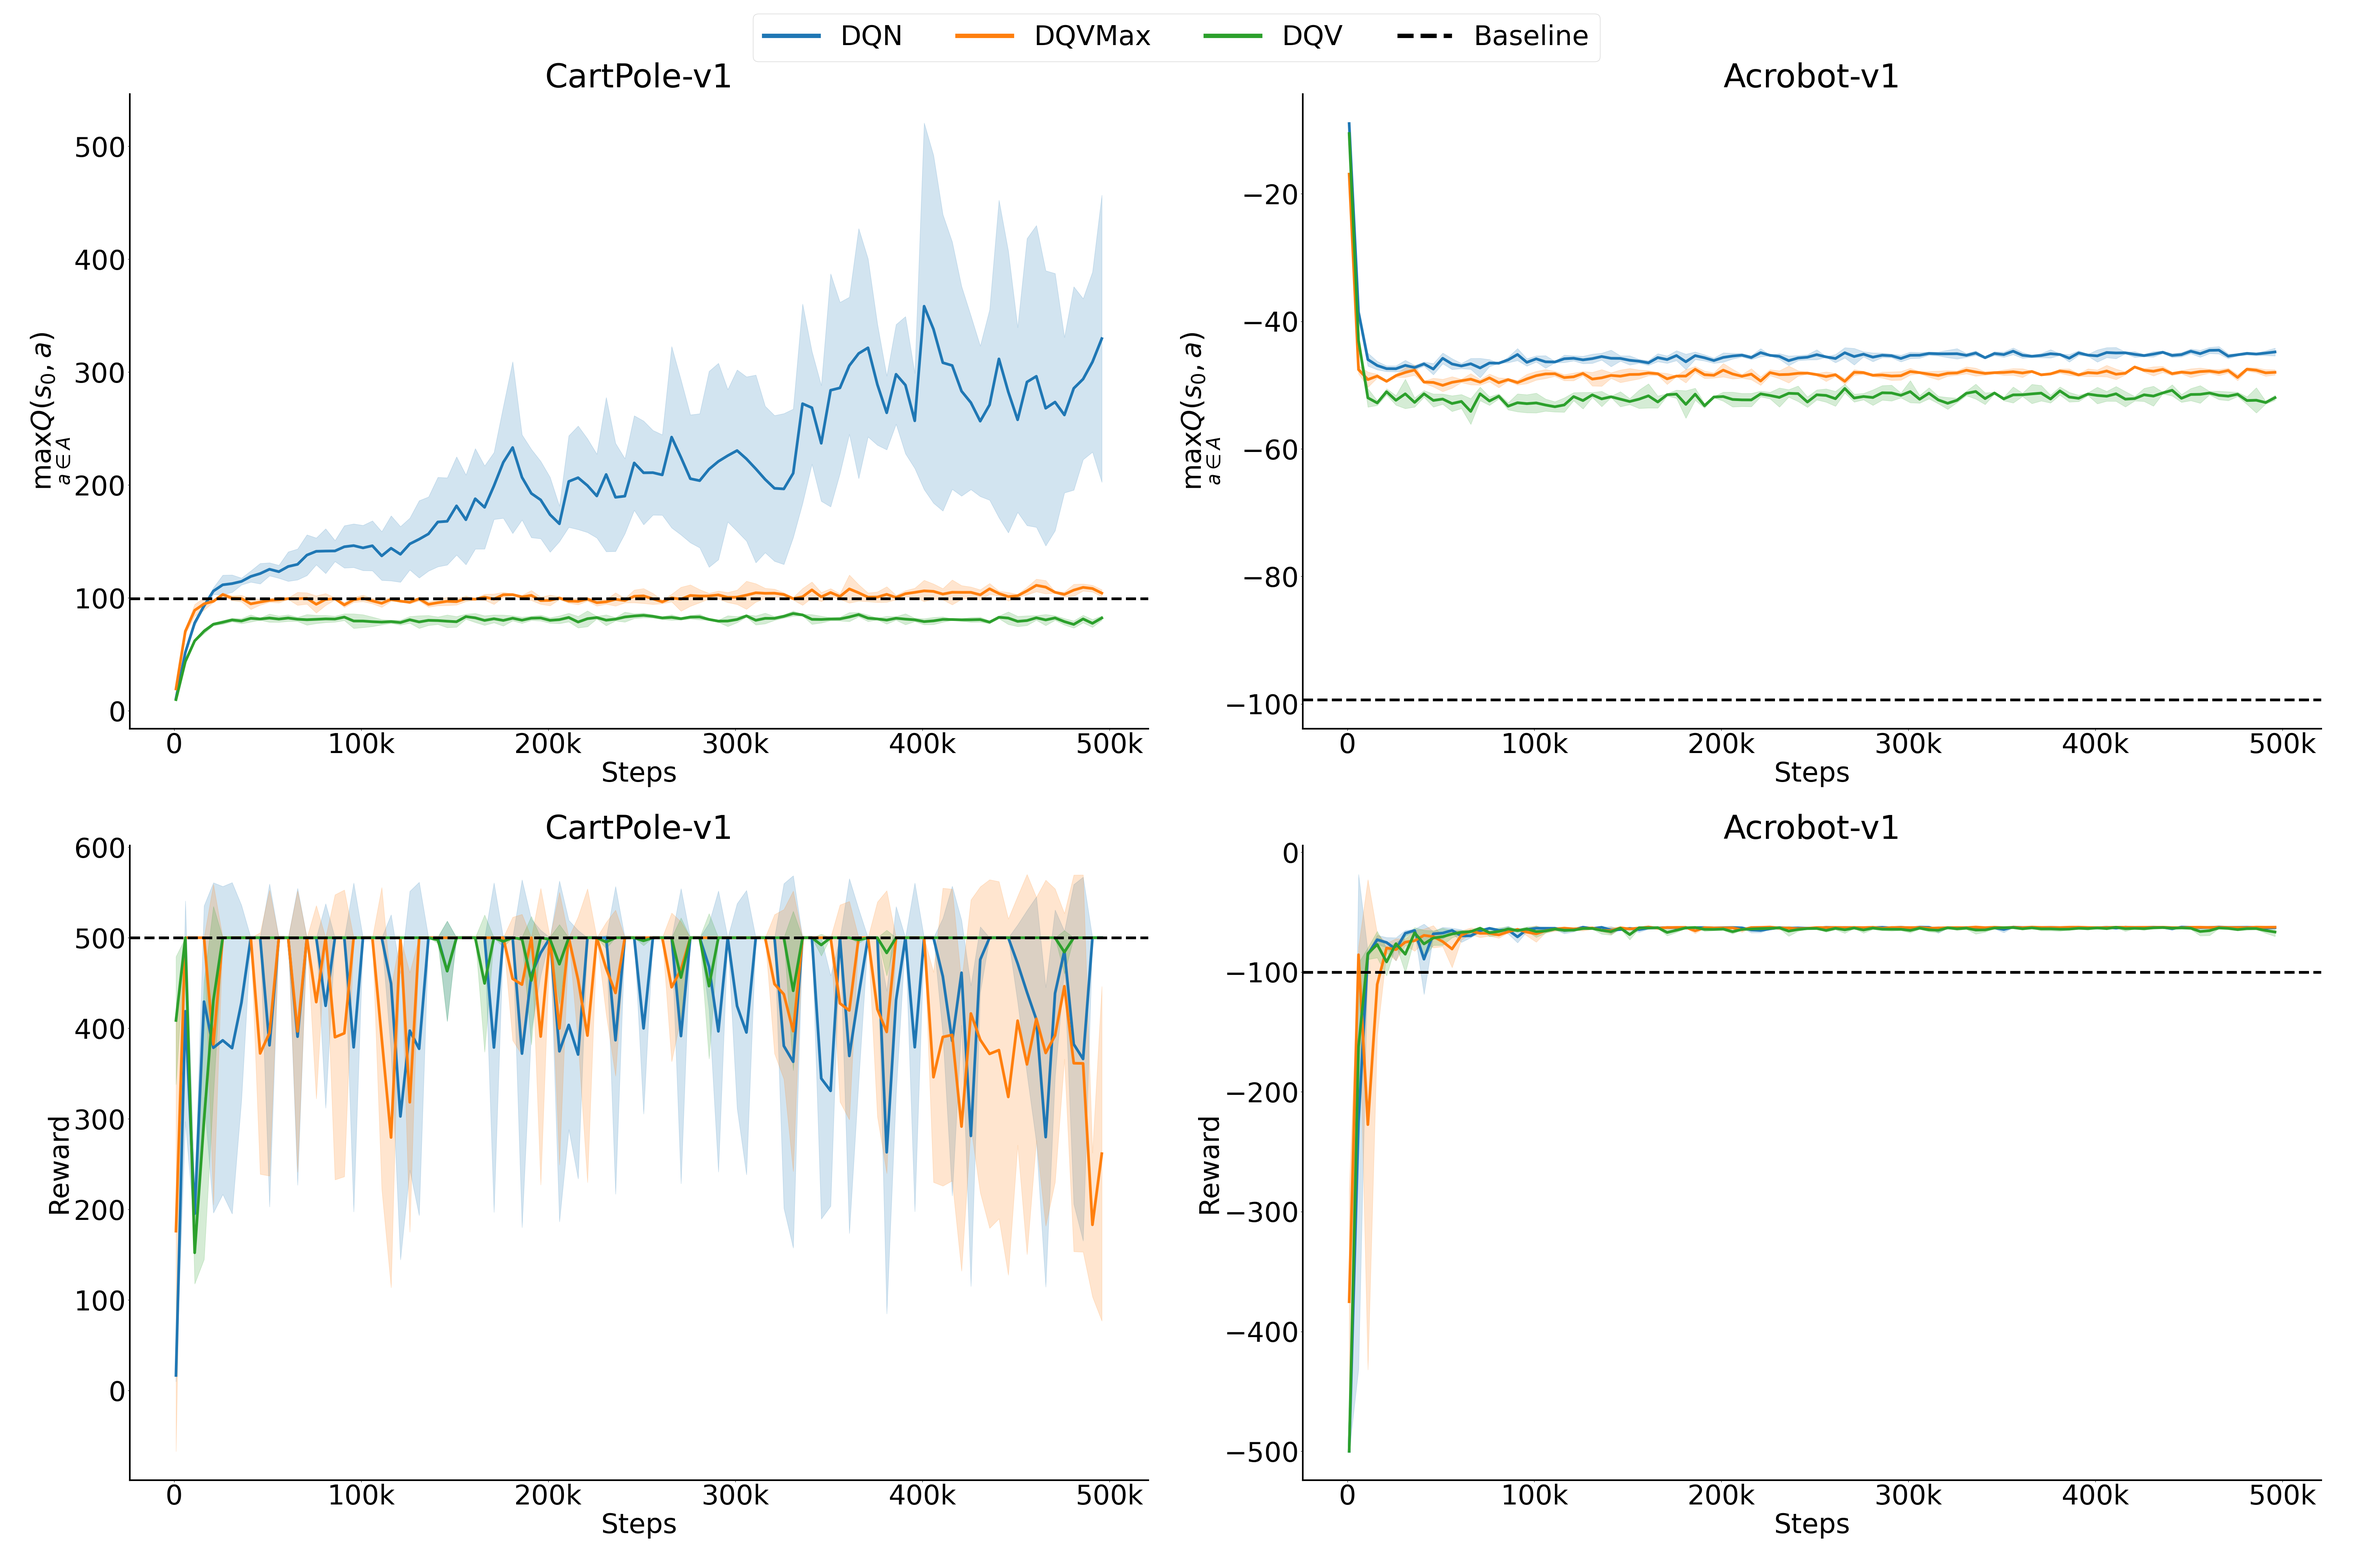
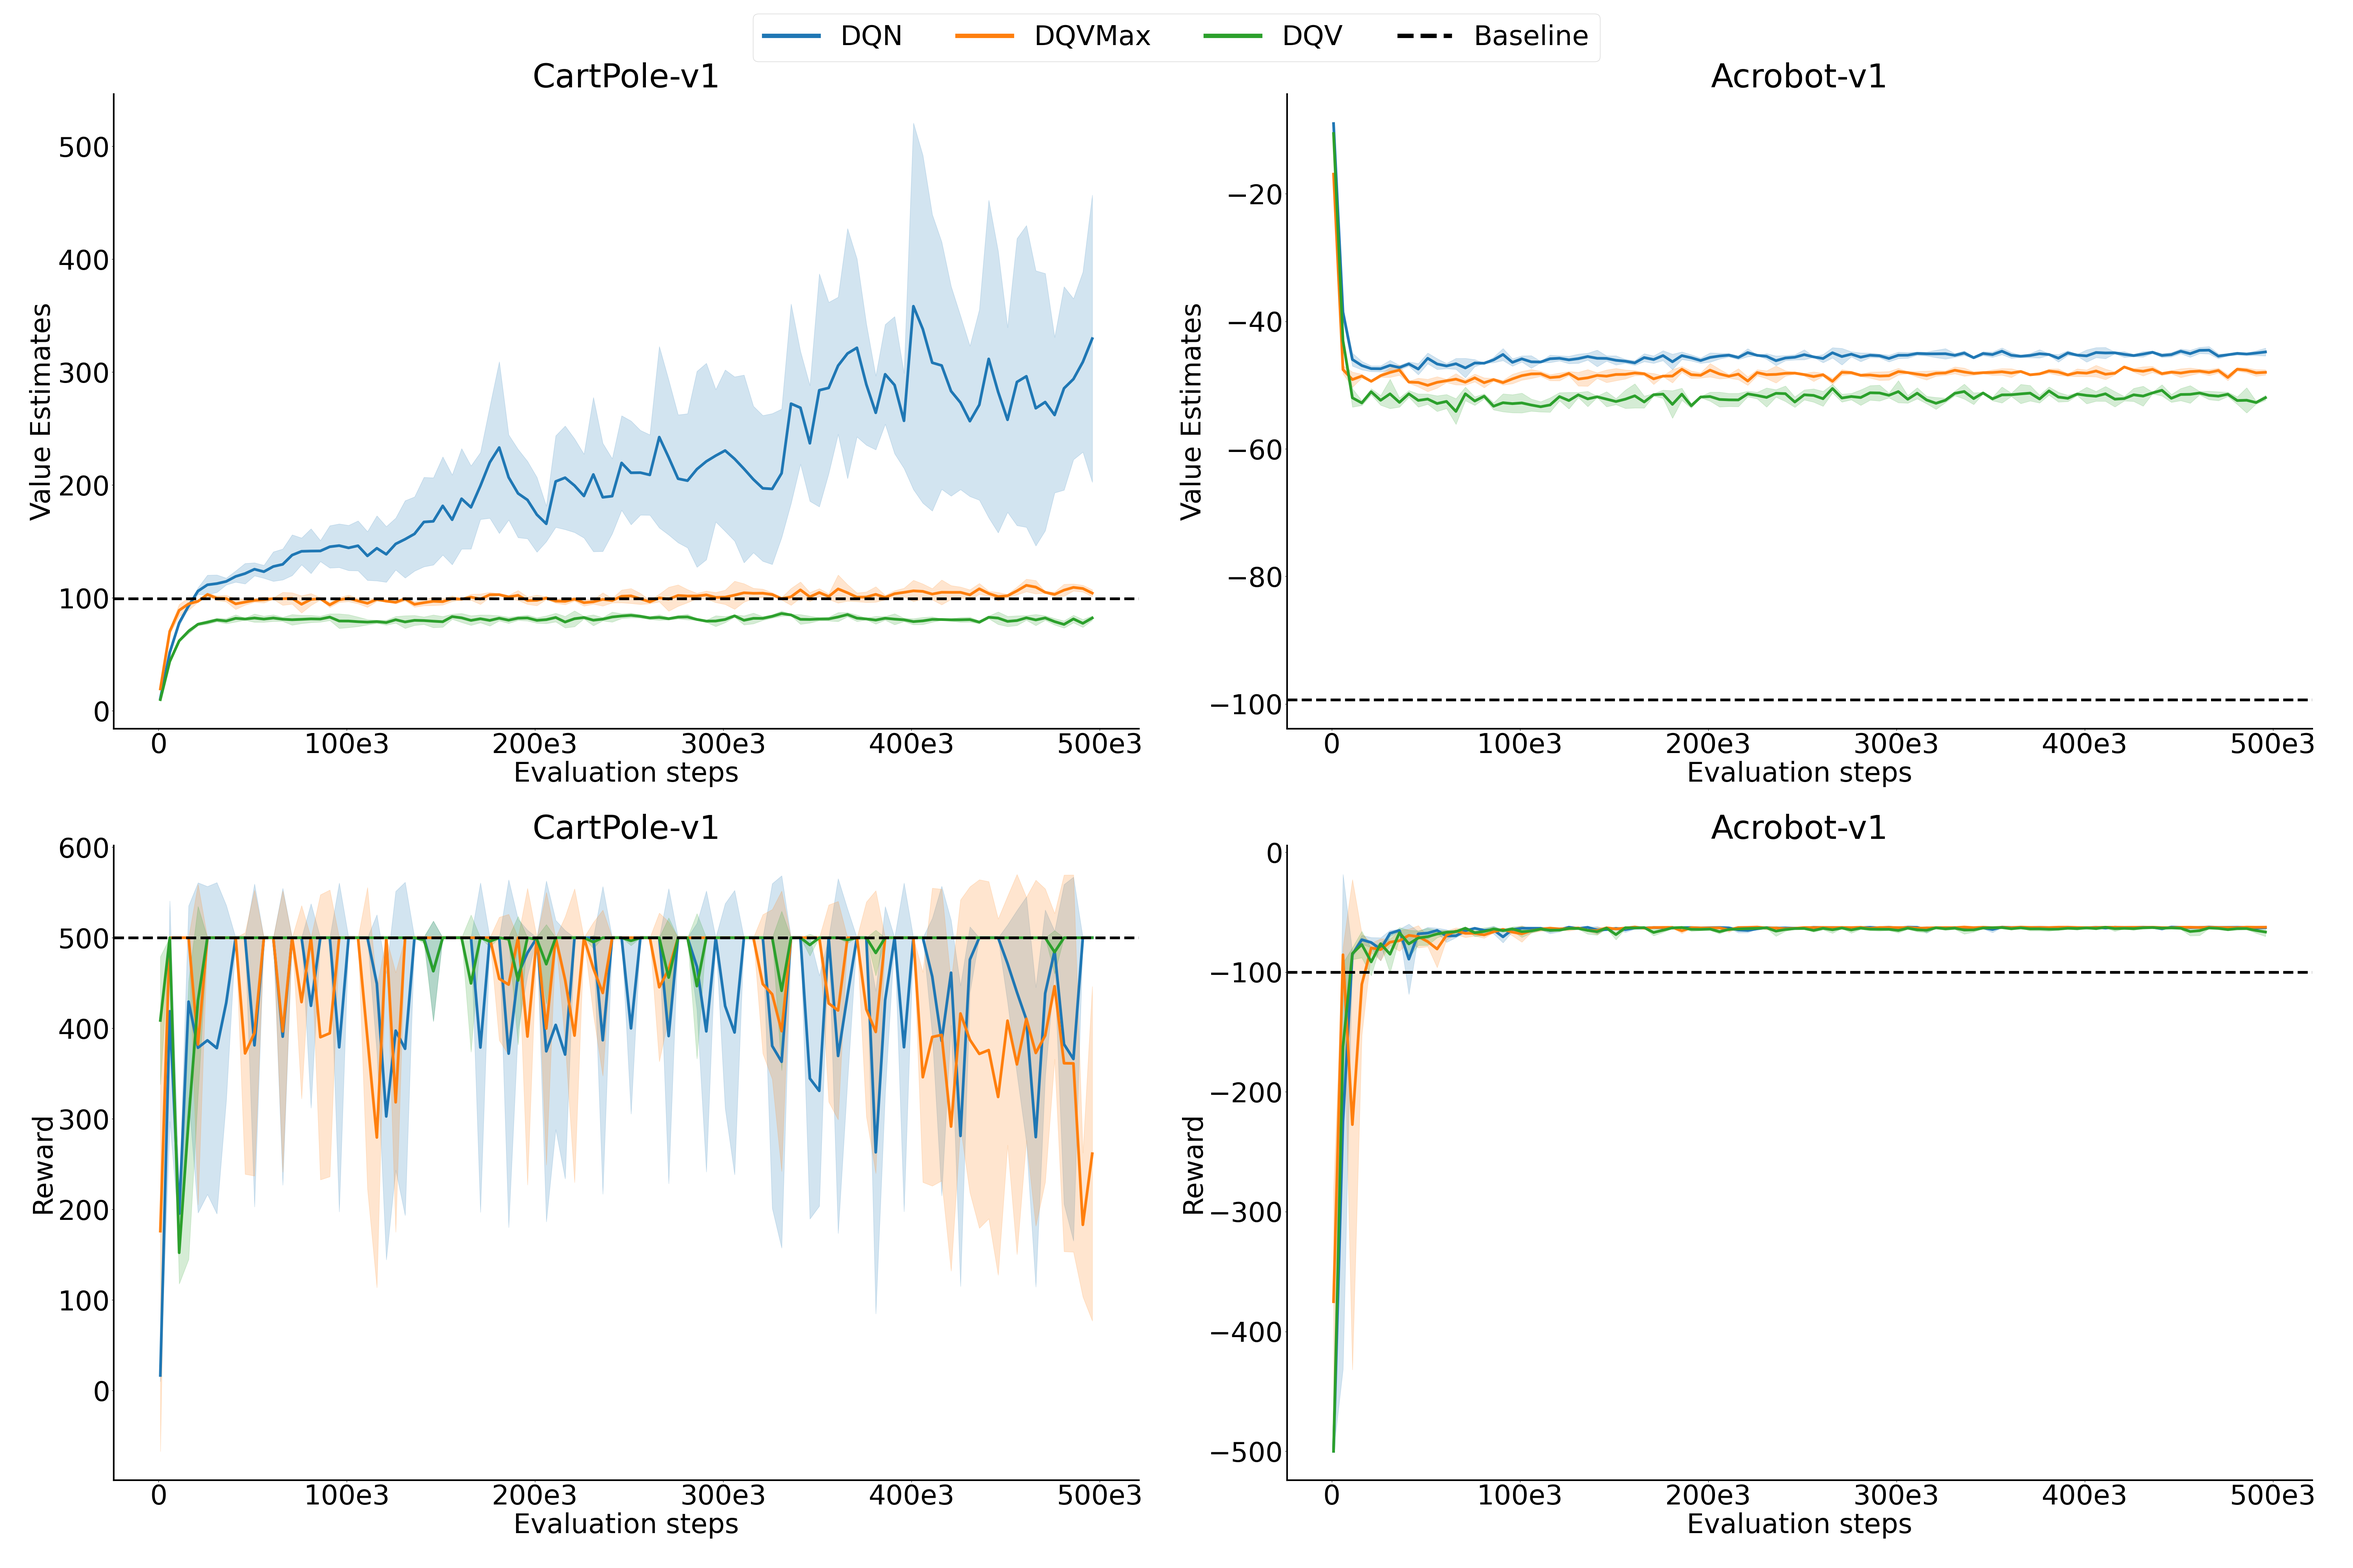
better axes, quick exponential weighted moving average plot too

diff --git a/dopamine/thesis/analytics/plot_scratch.py b/dopamine/thesis/analytics/plot_scratch.py
@@ -62,9 +62,9 @@ def plot_learners_per_env(
         linewidth=linewidth,
         label="Baseline",
     )
-    # indicate * 1000 suffix - not on datapoint 0
+    # indicate * 10e3 suffix - not on datapoint 0
     labs = [
-        f"{(int(float(t / 1000)))}{'k' if t else ''}" for t in ax.get_xticks().tolist()
+        f"{(int(float(t / 1000)))}{'e3' if t else ''}" for t in ax.get_xticks().tolist()
     ]
     ax.set_xticklabels(labs)
     ax.set(xlabel=xlabel, ylabel=ylabel)
@@ -73,7 +73,8 @@ def plot_learners_per_env(
     return ax
 
 
-mongo_uri = "mongodb://localhost:27017/"
+# mongo_uri = "mongodb://localhost:27017/"
+mongo_uri = constants.xxx_mongo_uri
 exp_suffix = "_pres_"
 
 client = pymongo.MongoClient(mongo_uri)
@@ -93,8 +94,13 @@ plt.rcParams["axes.spines.top"] = False
 
 fig, axes = plt.subplots(2, 2, figsize=(60, 40))
 
-cp_df = eval_data[eval_data["Env"] == "CartPole-v1"]
-ab_df = eval_data[eval_data["Env"] == "Acrobot-v1"]
+cp_df = eval_data[eval_data["Env"] == "CartPole-v1"].copy()
+ab_df = eval_data[eval_data["Env"] == "Acrobot-v1"].copy()
+
+# cp_df.loc[:, "Reward_ewm"] = cp_df["Reward"].ewm(com=0.7).mean()
+# ab_df.loc[:, "Reward_ewm"] = ab_df["Reward"].ewm(com=0.7).mean()
+# cp_df.loc[:, "Max_Q_S0_ewm"] = cp_df["Max_Q_S0"].ewm(com=0.7).mean()
+# ab_df.loc[:, "Max_Q_S0_ewm"] = ab_df["Max_Q_S0"].ewm(com=0.7).mean()
 
 plots = [
     plot_learners_per_env(
@@ -102,12 +108,12 @@ plots = [
         axes[j][i],
         df,
         ymetric,
-        xlabel="Steps",
+        xlabel="Evaluation steps",
         ylabel=ylabel,
     )
     for i, df in enumerate([cp_df, ab_df])
     for j, (ymetric, ylabel) in enumerate(
-        [("Max_Q_S0", "$\max_{a\in A}Q(s_0, a)$"), ("Reward",) * 2]
+        [("Max_Q_S0", "Value Estimates"), ("Reward", "Reward")]
     )
 ]
 
@@ -122,6 +128,6 @@ plt.tight_layout()
 plt.subplots_adjust(top=0.94)
 
 plt.savefig(
-    os.path.join(constants.resources_dir, "symposium," "dshift_plots_normal.png"),
+    os.path.join(constants.resources_dir, "symposium", "dshift_plots_normal.png"),
     transparent=True,
 )
